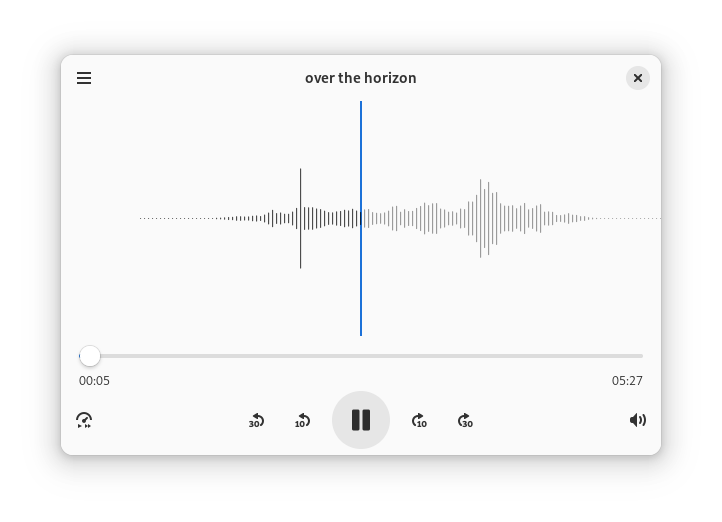
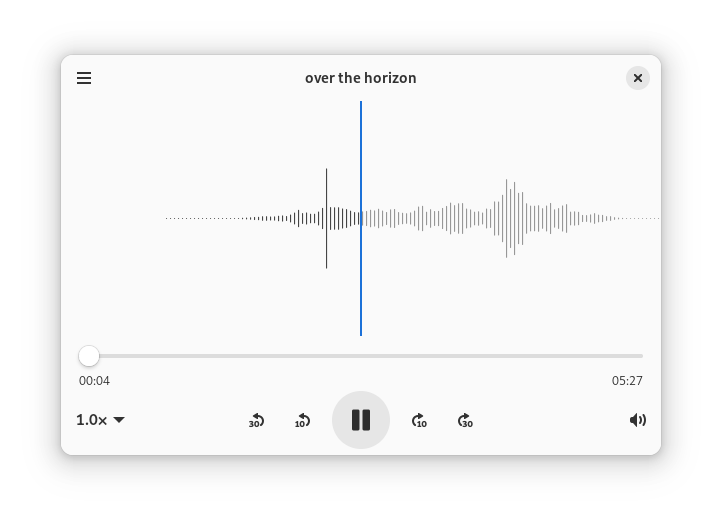
update screenshots

Changed region(s): [[0.3047, 0.3678, 0.8532, 0.4904], [0.0914, 0.7969, 0.1828, 0.8276]]

diff --git a/README.md b/README.md
@@ -18,7 +18,7 @@ Download latest artifact [from here][artifact].
 
 ## TODO
 
-- [ ] changing playback speed
+- [ ] App Icon
 
 ## Links
 
